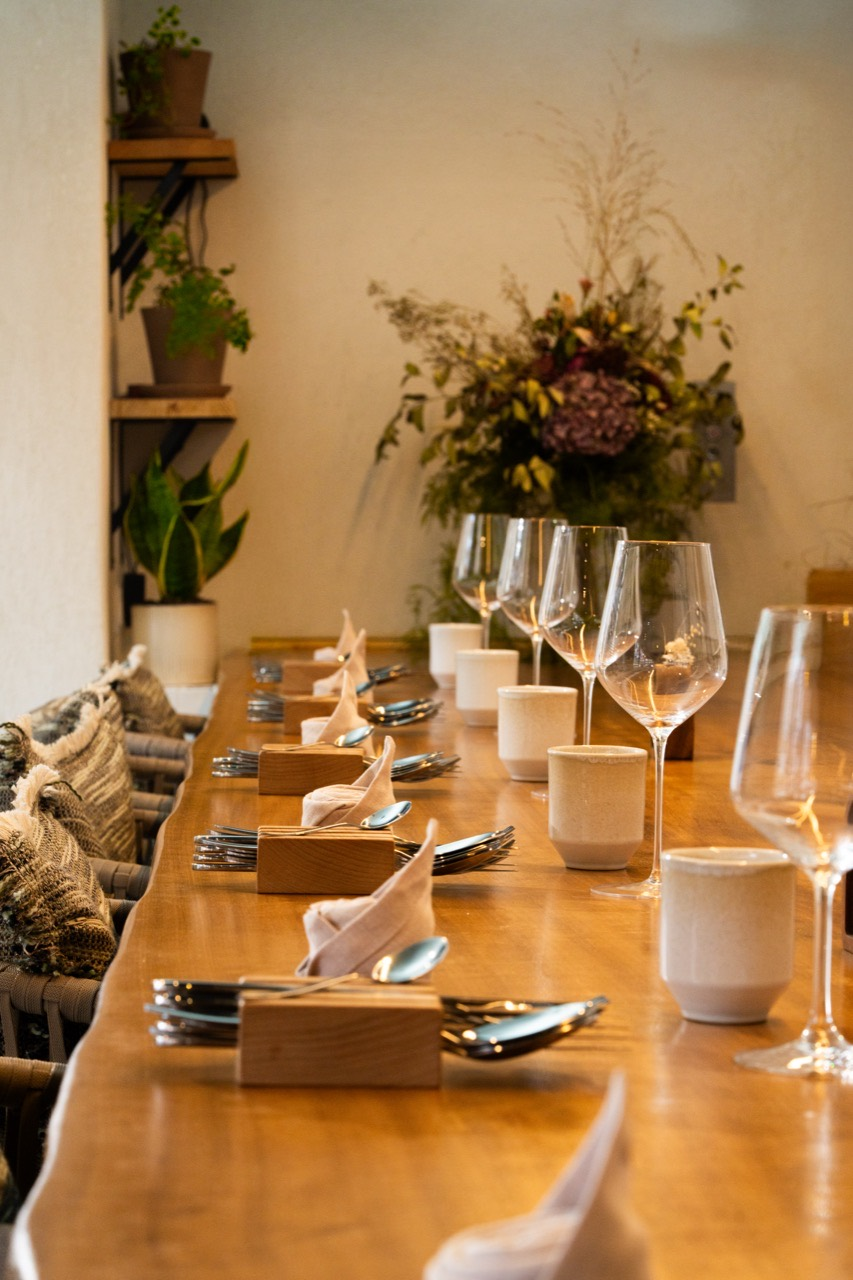
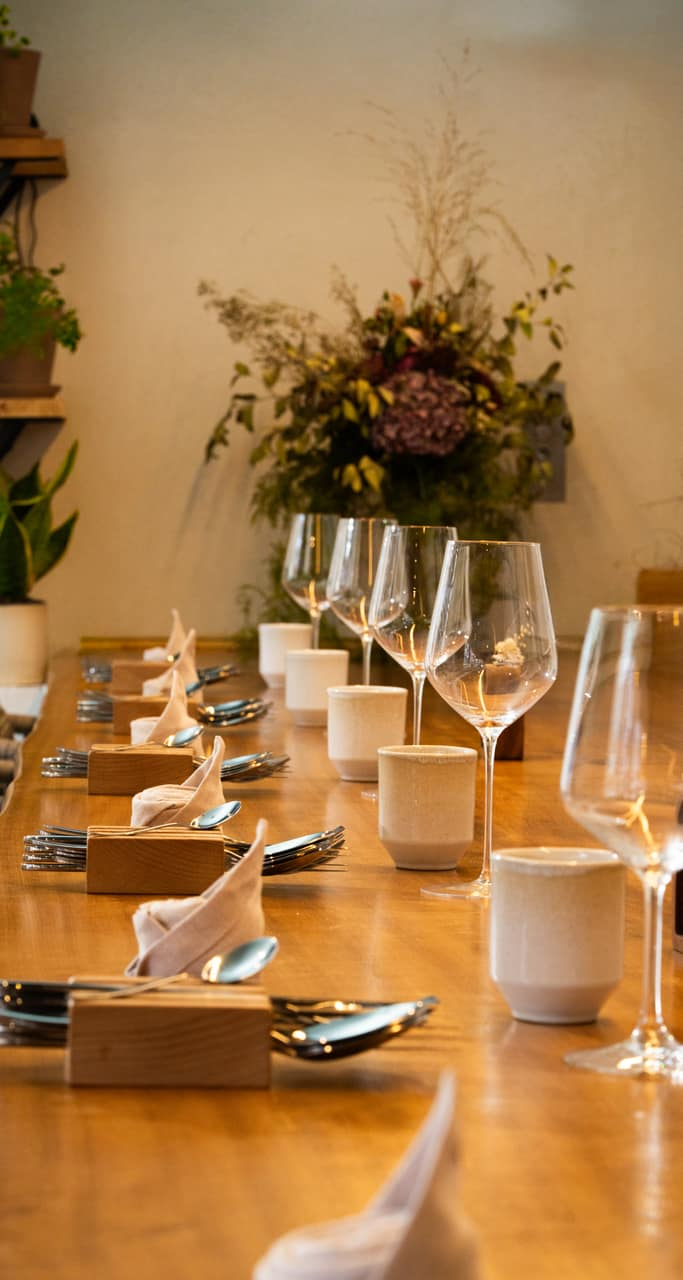
feat(galeria+regala+reservas+home): esquinas rectas, poda de regala, blooms y foto barra
- galeria: tarjetas con esquinas rectas (sin redondeo)
- regala: quita 'Cómo se regala' y 'El mejor regalo se cuenta en la mesa'
- reservas: flores en blur en la cabecera (como el hero de vinos)
- home: recorta la barra por la izquierda (fuera la franja de pared clara)

diff --git a/src/styles/main.css b/src/styles/main.css
@@ -576,9 +576,8 @@ body:has(.gal-stage) .reserva-bar{display:none}
   transform-origin:90% center;backface-visibility:hidden;
   will-change:transform,filter;contain:layout paint;
 }
-/* esquinas pro: redondeamos la propia imagen (el clip por overflow se dentaba bajo el transform 3D) */
-.gal-stage.is-carousel .gal-card__btn{border-radius:15px;overflow:visible}
-.gal-stage.is-carousel .gal-card__btn img{border-radius:15px}
+/* esquinas rectas: la foto con sus esquinas normales (sin redondeo) */
+.gal-stage.is-carousel .gal-card__btn{border-radius:0;overflow:hidden}
 
 /* --- marco fijo (eyebrow, título, contador, enlaces) --- */
 .gal-frame{
@@ -672,6 +671,9 @@ body:has(.gal-stage) .reserva-bar{display:none}
 .page-header .eyebrow{margin-bottom:1rem}
 .page-header h1{font-size:clamp(2.4rem,6vw,5rem);color:var(--moss);line-height:1.05}
 .page-header p{max-width:58ch;margin-top:1.3rem;color:var(--text-muted);font-size:clamp(1rem,1.5vw,1.18rem)}
+/* reservas: flores en blur de fondo, como el hero de vinos */
+.page-header--blooms{position:relative;overflow:hidden}
+.page-header--blooms > :not(.menu-blooms){position:relative;z-index:1}
 
 
 /* ---------- 404 ---------- */
